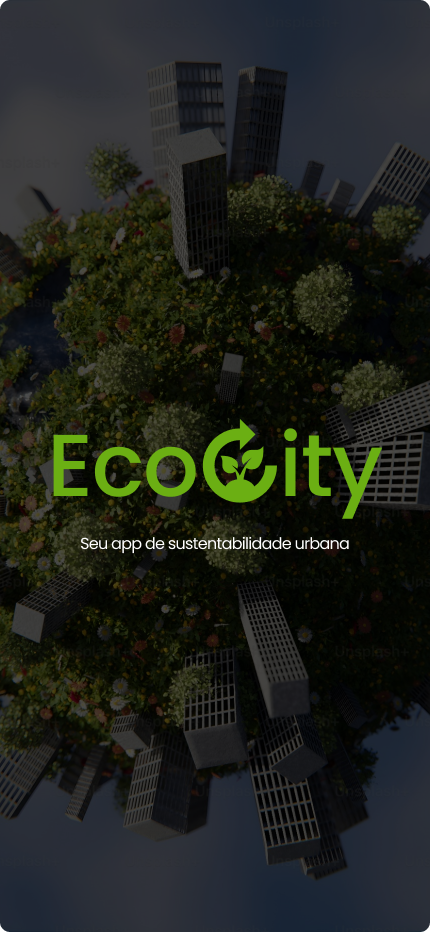
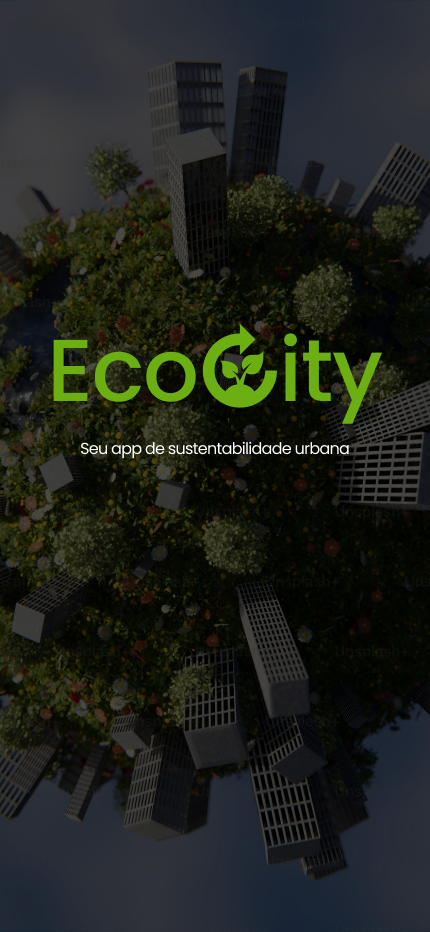
commit

diff --git a/app_ecocity/lib/src/view/PageLogin.dart b/app_ecocity/lib/src/view/PageLogin.dart
@@ -3,6 +3,7 @@
 // ignore_for_file: non_constant_identifier_names, prefer_const_constructors, deprecated_member_use
 
 import 'package:app_ecocity/main.dart';
+import 'package:app_ecocity/src/ui/theme/colors.dart';
 import 'package:flutter/material.dart';
 
 class PageLogin extends StatefulWidget {
@@ -35,134 +36,35 @@ class _MyStatefulWidgetState extends State<PageLogin> {
             mainAxisAlignment: MainAxisAlignment.center,
             children: [
               Text(
-                "BARQ",
-                textAlign: TextAlign.center,
-                style: TextStyle(
-                  fontSize: 60,
-                  fontWeight: FontWeight.w700,
-                  color: Colors.white,
-                ),
+                "Seu app de sustentabilidade urbana",
               ),
-              Text(
-                "\n Seu cardápio Digital\n",
-                textAlign: TextAlign.center,
-                style: TextStyle(
-                  fontSize: 30,
-                  fontWeight: FontWeight.w400,
-                  color: Colors.white,
-                ),
-              ),
-              SizedBox(height: 100),
+              SizedBox(height: 250),
               ElevatedButton(
                 // em caso de não aceitar os termos de uso, retorna o código abaixo
                 onPressed: () {
                   if (VerificarTermos()) {
                     Navigator.of(context)
                         .push(MaterialPageRoute(builder: (context) => MyApp()));
-                  } else {
-                    showDialog(
-                      context: context,
-                      builder: (BuildContext context) {
-                        return AlertDialog(
-                          title: Text("Termos de uso não aceito!"),
-                          content: Text(
-                              "Querido(a) cliente, você deve aceitar os termos de uso para realizar seu pedido em nosso cardápio."),
-                          actions: <Widget>[
-                            TextButton(
-                              onPressed: () {
-                                Navigator.of(context).pop();
-                              },
-                              child: Text(
-                                "Fechar",
-                                style: TextStyle(
-                                  color: Color(0xFF00265F),
-                                ),
-                              ),
-                            ),
-                          ],
-                        );
-                      },
-                    );
                   }
                 },
                 style: ElevatedButton.styleFrom(
-                  fixedSize: Size(370, 62),
-                  backgroundColor: Color(0xFF00265F),
+                  fixedSize: Size(300, 62),
+                  backgroundColor: ColorSystem.primaryColor,
                   primary: Colors.white,
                   shape: RoundedRectangleBorder(
                     borderRadius: BorderRadius.circular(15),
                   ),
                 ),
                 child: Text(
-                  "Acessar Cardápio",
-                  style: TextStyle(fontSize: 20),
+                  "Acessar",
+                  style: TextStyle(
+                    fontSize: 18,
+                    color: Colors.white,
+                  ),
                 ),
               ),
               SizedBox(height: 35),
-              ElevatedButton(
-                onPressed: () {
-                  if (VerificarTermos()) {
-                    Navigator.of(context)
-                        .push(MaterialPageRoute(builder: (context) => MyApp()));
-                  } else {
-                    // Popup de solicitar garçom
-                    showDialog(
-                        context: context,
-                        builder: (BuildContext context) {
-                          return AlertDialog(
-                            title: Text("Garçom solicitado!"),
-                            content:
-                                Text("Em instantes lhe atenderá, aguarde!"),
-                            actions: <Widget>[
-                              TextButton(
-                                  onPressed: () {
-                                    Navigator.of(context).pop();
-                                  },
-                                  child: Text(
-                                    "Fechar",
-                                    style: TextStyle(
-                                      color: Color(0xFF00265F),
-                                    ),
-                                  )),
-                            ],
-                          );
-                        });
-                  }
-                },
-                style: ElevatedButton.styleFrom(
-                  fixedSize: Size(370, 62),
-                  backgroundColor: Colors.white,
-                  primary: Color(0xFF00265F),
-                  onPrimary: Color(0xFF00265F),
-                  shape: RoundedRectangleBorder(
-                    borderRadius: BorderRadius.circular(15),
-                  ),
-                ),
-                child: Text(
-                  "Solicitar Garçom",
-                  style: TextStyle(fontSize: 20),
-                ),
-              ),
               SizedBox(height: 30),
-              Row(
-                mainAxisAlignment: MainAxisAlignment.center,
-                children: [
-                  Checkbox(
-                    value: isChecked,
-                    onChanged: (bool? value) {
-                      setState(() {
-                        isChecked = value!;
-                      });
-                    },
-                    activeColor: Color(0xFF00265F),
-                    side: BorderSide(width: 1.5, color: Colors.white),
-                  ),
-                  Text(
-                    "Li e aceito os termos de uso",
-                    style: TextStyle(fontSize: 20, color: Colors.white),
-                  ),
-                ],
-              )
             ],
           ),
         )

diff --git a/app_ecocity/lib/src/ui/theme/colors.dart b/app_ecocity/lib/src/ui/theme/colors.dart
@@ -2,7 +2,7 @@ import 'package:flutter/material.dart';
 
 class ColorSystem {
   // Cores
-  static const Color primaryColor = Color(0xFF00265F);
+  static const Color primaryColor = Color.fromARGB(255, 107, 175, 19);
   static const Color borderColor = Color(0xFF747474);
   static const Color textDestaqueColor = Color(0xFF505050);
   static const Color textColor = Color(0xFF000000);
